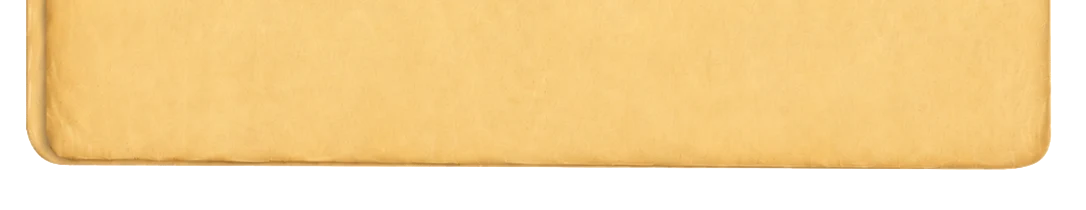
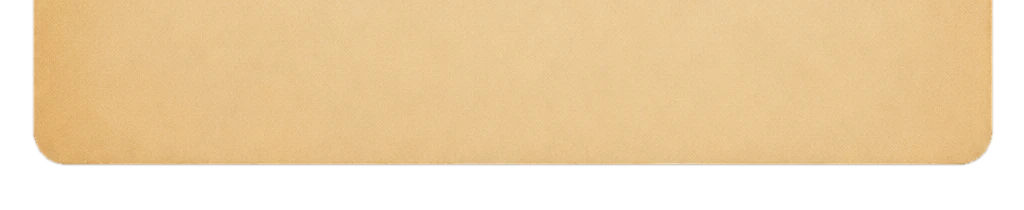
landing1012: use newgovfolder (painted masthead) as folder; keep code nav + paper

diff --git a/app/landing1012/landing1012.css b/app/landing1012/landing1012.css
@@ -32,9 +32,9 @@
 
 /* Outer folder frame (govland): tab top, stretched middle, fixed bottom. */
 .og-folder { position: absolute; inset: 0; z-index: 0; display: flex; flex-direction: column; pointer-events: none; }
-.og-folder-top { width: 100%; aspect-ratio: 1086 / 240; background: url('/gl-top.webp') no-repeat; background-size: 100% 100%; }
+.og-folder-top { width: 100%; aspect-ratio: 1024 / 240; background: url('/gl-top.webp') no-repeat; background-size: 100% 100%; }
 .og-folder-mid { flex: 1 1 auto; background: url('/gl-mid.webp') no-repeat; background-size: 100% 100%; }
-.og-folder-bottom { width: 100%; aspect-ratio: 1086 / 210; background: url('/gl-bottom.webp') no-repeat; background-size: 100% 100%; margin-top: -1px; }
+.og-folder-bottom { width: 100%; aspect-ratio: 1024 / 210; background: url('/gl-bottom.webp') no-repeat; background-size: 100% 100%; margin-top: -1px; }
 
 /* Paper sheet placed inside the folder, below the nav; the articles sit on it. */
 .og-paper { position: relative; margin-top: 16px; filter: drop-shadow(0 6px 16px rgba(0, 0, 0, 0.28)); }
@@ -52,7 +52,7 @@
 }
 
 /* ---- Masthead ---- */
-.og-masthead { display: flex; justify-content: space-between; align-items: flex-end; gap: 16px; padding-bottom: 8px; }
+.og-masthead { display: flex; justify-content: flex-end; align-items: flex-end; gap: 16px; padding-bottom: 8px; }
 .og-title { font-family: 'Special Elite', 'Courier New', monospace; font-weight: 400; text-transform: uppercase; letter-spacing: 0.02em; line-height: 1; font-size: clamp(26px, 5.4vw, 62px); white-space: nowrap; margin: 0; }
 .og-tab { display: flex; gap: 8px; align-items: center; font-family: 'Special Elite', monospace; text-transform: uppercase; letter-spacing: 0.1em; font-size: clamp(9px, 1.1vw, 12px); white-space: nowrap; padding-bottom: 4px; }
 .og-tab a { color: var(--ink); text-decoration: none; }

diff --git a/app/landing1012/page.tsx b/app/landing1012/page.tsx
@@ -65,8 +65,8 @@ export default function Landing1012() {
         </div>
         <div className="og-content">
           {/* ── Masthead + nav (on the folder) ── */}
+          {/* Masthead "OPEN GOVERNMENT" is painted into the newgovfolder image. */}
           <header className="og-masthead">
-            <h1 className="og-title">Open Government</h1>
             <div className="og-tab">
               <a href="/login">Account / Info</a>
               <a className="og-signup" href="/login">Sign up / Log in</a>
